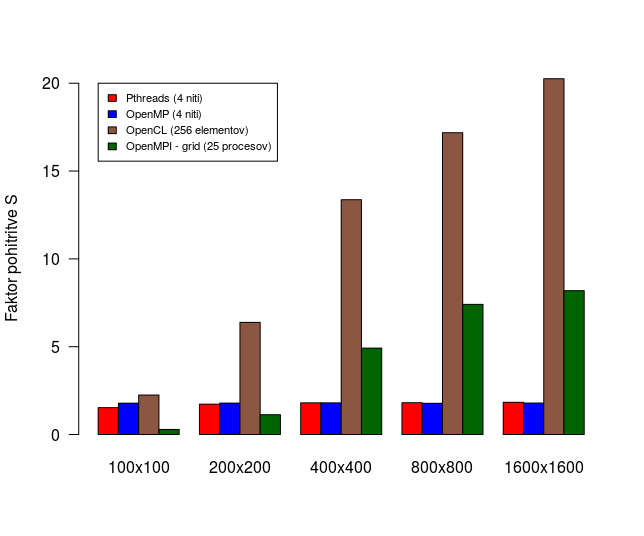
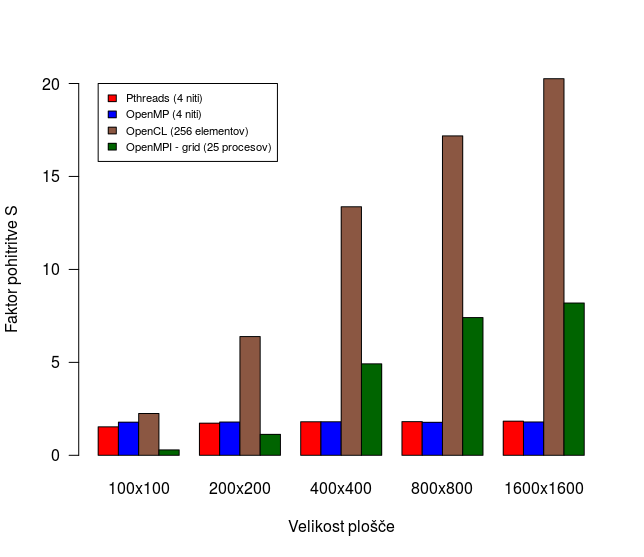
Fixed a sentence, fixed speedup plot

diff --git a/porocilo/porocilo.tex b/porocilo/porocilo.tex
@@ -657,7 +657,7 @@ Z večanjem velikosti plošče povprečni čas izvajanja hitro narašča (kvadra
 
 Izmed uporabljenih pristopov paralelizacije sta si paralelizacija s knjižnico Pthreads in paralelizacija s knjižnico OpenMP zelo podobni - povprečni časi izvajanja so si zelo blizu, iz tega pa sledi, da so si tudi pohitritve zelo podobne. Majhne razlike so najverjetneje posledica različno učinkovitih implementacij paralelnih konstruktov v posameznih knjižnicah.
 
-Najboljše rezultate je za vse (izbrane) velikosti plošče dosegla paralelizacija na grafični kartici (s knjižnico OpenCL). Na $1600 \times 1600$ je dosegla kar 20,258-kratno pohitritev (glede na sekvenčni algoritem). Kljub temu pa to ne pomeni, da bo temu vedno tako - kateri pristop bo deloval najbolje, je močno odvisno od tipa problema. Problem temperaturne plošče ima visoko stopnjo podatkovnega paralelizma in je zato primeren za paralelizacijo na GPE. Če bi naš problem zahteval številne vejitve programskega toka in manj vzporednega računanja, bi pristop z OpenCL dosegel veliko slabše rezultate.
+Najboljše rezultate je za vse (izbrane) velikosti plošče dosegla paralelizacija na grafični kartici (s knjižnico OpenCL). Na $1600 \times 1600$ je dosegla kar 20,258-kratno pohitritev (glede na sekvenčni algoritem). Kljub temu pa to ne pomeni, da bo ta pristop deloval najbolje za vsak problem - to je močno odvisno od tipa problema. Problem temperaturne plošče ima visoko stopnjo podatkovnega paralelizma in je zato primeren za paralelizacijo na GPE. Če bi naš problem zahteval številne vejitve programskega toka in manj vzporednega računanja, bi pristop z OpenCL dosegel veliko slabše rezultate.
 
 Poleg paralelizacije na grafični kartici, smo precej dobre rezultate dosegli tudi na omrežju grid, kjer smo testirali paralelizacijo s knjižnico MPI. Nekoliko nas je presenetilo dejstvo, da je latenco pri komunikaciji na omrežju zelo težko prikriti. Najboljši rezultat smo namreč dosegli, ko smo število procesov omejili tako, da se je algoritem v celoti izvajal na enem vozlišču. V primeru večjega števila vozlišč se je pri vseh časih pojavil pribitek (približno 30 sekund), so si pa ti časi precej podobni za različne velikosti plošče, kar nakazuje, da bi lahko z ekstremnim večanjem problema dosegli dober rezultat tudi na tak način.
 
